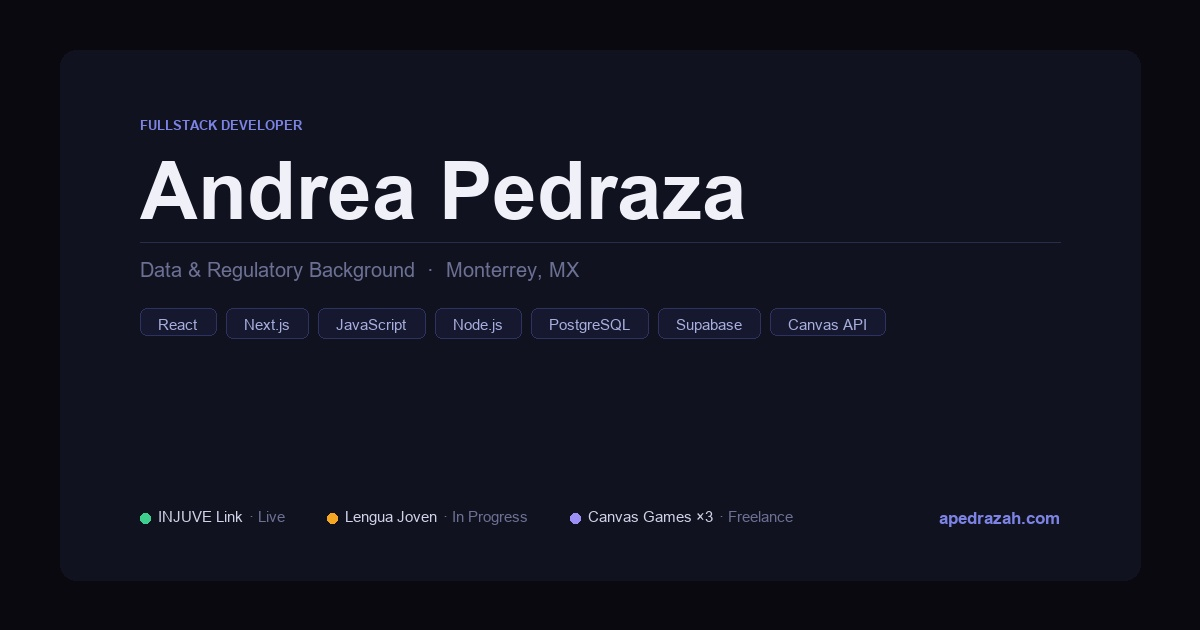
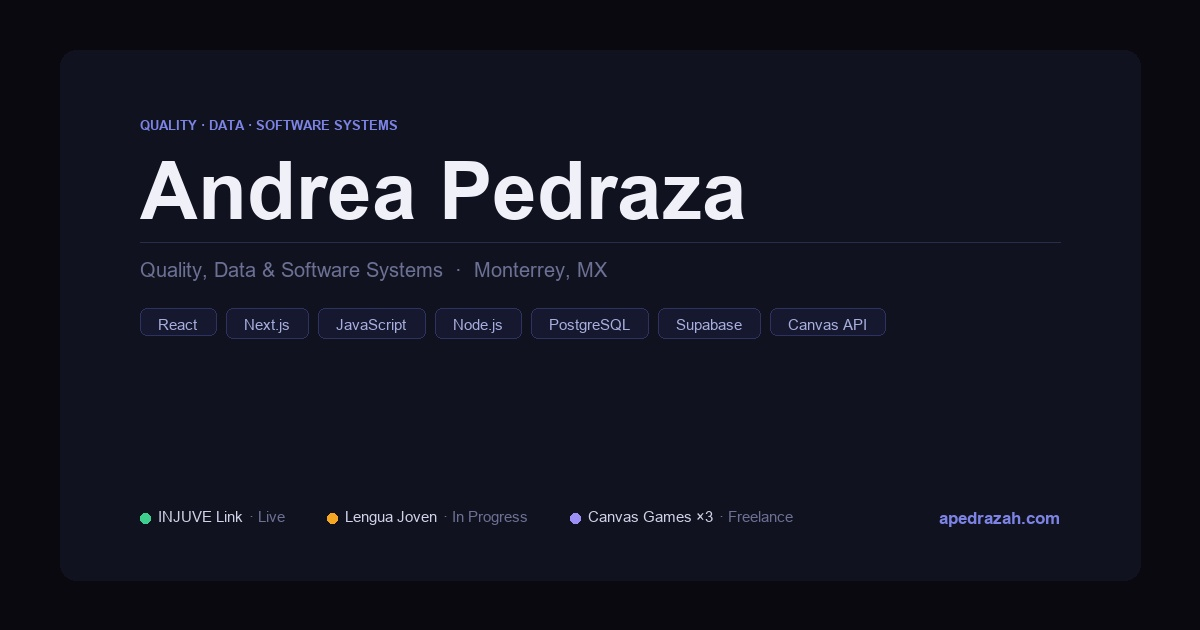
Reposition portfolio: Quality, Data & Software Systems
- Update headline, eyebrow, tagline, and profile to hybrid QA/Data/Software positioning
- Correct all three education entries: dates, degree titles, and status badges
- Regenerate og-image.jpg with updated label and tagline
- Change Die Küche and Shoot the Word badges from Freelance to Live/En Vivo

Changed region(s): [[0.1233, 0.3921, 0.4933, 0.4524], [0.1233, 0.181, 0.3392, 0.2111]]

diff --git a/index.html b/index.html
@@ -3,9 +3,9 @@
 <head>
   <meta charset="UTF-8">
   <meta name="viewport" content="width=device-width, initial-scale=1.0">
-  <title>Andrea Pedraza Herrera — Fullstack Developer</title>
-  <meta property="og:title" content="Andrea Pedraza Herrera — Fullstack Developer" />
-  <meta property="og:description" content="Fullstack developer with a background in data engineering, regulatory compliance, and clinical research. Portfolio: web apps, Canvas games, and more." />
+  <title>Andrea Pedraza Herrera — Quality, Data &amp; Software Systems</title>
+  <meta property="og:title" content="Andrea Pedraza Herrera — Quality, Data &amp; Software Systems" />
+  <meta property="og:description" content="Connecting quality assurance and regulatory compliance with data analytics and software development. Portfolio: web apps, validated systems, and data-driven tools." />
   <meta property="og:image" content="https://apedrazah.com/og-image.jpg" />
   <meta property="og:url" content="https://apedrazah.com" />
   <meta property="og:type" content="website" />
@@ -1063,18 +1063,16 @@
 <!-- HERO -->
 <section id="hero">
   <div class="hero-left">
-    <p class="hero-eyebrow en-only">Fullstack Developer · Data &amp; Regulatory Background · Monterrey, MX</p>
-    <p class="hero-eyebrow es-only">Desarrolladora Fullstack · Experiencia en Datos &amp; Regulatorio · Monterrey, MX</p>
+    <p class="hero-eyebrow en-only">Quality, Data &amp; Software Systems · Monterrey, MX</p>
+    <p class="hero-eyebrow es-only">Calidad, Datos y Sistemas de Software · Monterrey, MX</p>
 
     <h1 class="hero-name">Andrea<br>Pedraza Herrera</h1>
 
     <p class="hero-tagline en-only">
-      Fullstack developer with a background in data engineering, regulatory compliance, and clinical research.
-      I build web applications and interactive tools — and I bring analytical rigor to every layer of the stack.
+      I connect quality assurance and regulatory compliance with data analytics and software development to improve processes, strengthen quality systems, and enable better decisions.
     </p>
     <p class="hero-tagline es-only">
-      Desarrolladora fullstack con experiencia en ingeniería de datos, cumplimiento regulatorio e investigación clínica.
-      Construyo aplicaciones web y herramientas interactivas, con rigor analítico en cada capa del stack.
+      Integro el aseguramiento de calidad y el cumplimiento regulatorio con el análisis de datos y el desarrollo de software para mejorar procesos, fortalecer los sistemas de calidad y facilitar mejores decisiones.
     </p>
 
     <div class="hero-contacts">
@@ -1187,23 +1185,27 @@
       <p class="sb-label es-only">Educación</p>
 
       <div class="edu-entry">
-        <p class="edu-degree en-only">M.Sc. in Engineering — Data Science</p>
-        <p class="edu-degree es-only">Maestría en Ingeniería — Ciencias de Datos</p>
+        <p class="edu-degree en-only">M.Sc. in Data Science</p>
+        <p class="edu-degree es-only">Maestría en Ciencias de Datos</p>
         <p class="edu-school">UVM</p>
-        <span class="edu-badge en-only">Sep 2026 – Jun 2028 · In Progress</span>
-        <span class="edu-badge es-only">Sep 2026 – Jun 2028 · En curso</span>
+        <span class="edu-badge en-only">Aug 2026 – Present · In Progress</span>
+        <span class="edu-badge es-only">Ago 2026 – Presente · En curso</span>
       </div>
 
       <div class="edu-entry">
         <p class="edu-degree en-only">B.Sc. in Data Science Engineering</p>
         <p class="edu-degree es-only">Ing. en Ciencias de Datos</p>
-        <p class="edu-school">UVM · 2026</p>
+        <p class="edu-school">UVM · 2023 – 2026</p>
+        <span class="edu-badge en-only">Degree in Process</span>
+        <span class="edu-badge es-only">Título en Trámite</span>
       </div>
 
       <div class="edu-entry">
         <p class="edu-degree en-only">B.Sc. in Food Science</p>
-        <p class="edu-degree es-only">Lic. en Ciencia de Alimentos</p>
-        <p class="edu-school">UANL · 2020</p>
+        <p class="edu-degree es-only">Lic. en Ciencias de los Alimentos</p>
+        <p class="edu-school">UANL · 2015 – 2020</p>
+        <span class="edu-badge en-only">Degree &amp; License Obtained</span>
+        <span class="edu-badge es-only">Título y Cédula Profesional</span>
       </div>
     </div>
 
@@ -1236,10 +1238,10 @@
         <div class="sec-rule"></div>
       </div>
       <p class="profile-text en-only">
-        Fullstack developer and Data Science Engineer (UVM, 2026) with a background in data engineering, regulatory compliance, and clinical research. Builds web applications and interactive tools — React, Node.js, PostgreSQL, Canvas API — and brings analytical rigor to every layer of the stack. Background includes managing regulated data, quality indicators, and audits across healthcare and clinical research environments.
+        I connect quality assurance and regulatory compliance with data analytics and software development to improve processes, strengthen quality systems, and enable better decisions.
       </p>
       <p class="profile-text es-only">
-        Desarrolladora fullstack e Ingeniera en Ciencias de Datos (UVM, 2026) con experiencia en ingeniería de datos, cumplimiento regulatorio e investigación clínica. Construye aplicaciones web y herramientas interactivas — React, Node.js, PostgreSQL, Canvas API — con rigor analítico en cada capa del stack. Su trayectoria incluye gestión de datos regulados, indicadores de calidad y auditorías en entornos de salud e investigación clínica.
+        Integro el aseguramiento de calidad y el cumplimiento regulatorio con el análisis de datos y el desarrollo de software para mejorar procesos, fortalecer los sistemas de calidad y facilitar mejores decisiones.
       </p>
     </section>
 
@@ -1253,7 +1255,7 @@
 
       <div class="proj-list en-only">
         <div class="proj-card">
-          <p class="proj-name">Die Küche <span class="edu-badge" style="margin-left:8px;vertical-align:middle;background:var(--surface);color:var(--ink-muted);">Freelance</span></p>
+          <p class="proj-name">Die Küche <span class="edu-badge" style="margin-left:8px;vertical-align:middle;">Live</span></p>
           <p class="proj-desc">Educational German culinary vocabulary game built for Focused Languages. Oct 2026.</p>
           <details class="proj-details">
             <summary><span>Read more</span></summary>
@@ -1279,7 +1281,7 @@
           </div>
         </div>
         <div class="proj-card">
-          <p class="proj-name">Shoot the Word <span class="edu-badge" style="margin-left:8px;vertical-align:middle;background:var(--surface);color:var(--ink-muted);">Freelance</span></p>
+          <p class="proj-name">Shoot the Word <span class="edu-badge" style="margin-left:8px;vertical-align:middle;">Live</span></p>
           <p class="proj-desc">Multilingual vocabulary shooting game in 3 languages (German, English, Spanish). Oct 2026.</p>
           <details class="proj-details">
             <summary><span>Read more</span></summary>
@@ -1330,7 +1332,7 @@
 
       <div class="proj-list es-only">
         <div class="proj-card">
-          <p class="proj-name">Die Küche <span class="edu-badge" style="margin-left:8px;vertical-align:middle;background:var(--surface);color:var(--ink-muted);">Freelance</span></p>
+          <p class="proj-name">Die Küche <span class="edu-badge" style="margin-left:8px;vertical-align:middle;">En Vivo</span></p>
           <p class="proj-desc">Juego educativo de vocabulario culinario en alemán para Focused Languages. Oct 2026.</p>
           <details class="proj-details">
             <summary><span>Leer más</span></summary>
@@ -1356,7 +1358,7 @@
           </div>
         </div>
         <div class="proj-card">
-          <p class="proj-name">Shoot the Word <span class="edu-badge" style="margin-left:8px;vertical-align:middle;background:var(--surface);color:var(--ink-muted);">Freelance</span></p>
+          <p class="proj-name">Shoot the Word <span class="edu-badge" style="margin-left:8px;vertical-align:middle;">En Vivo</span></p>
           <p class="proj-desc">Juego de disparos de vocabulario multilingüe en 3 idiomas (alemán, inglés, español). Oct 2026.</p>
           <details class="proj-details">
             <summary><span>Leer más</span></summary>
@@ -1640,14 +1642,6 @@
           <span class="crs-action"><svg width="13" height="13" viewBox="0 0 13 13" fill="none" aria-hidden="true"><rect x="1.5" y="1.5" width="10" height="10" rx="1.5" stroke="currentColor" stroke-width="1.3"/><path d="M6.5 4v5M4 6.5h5" stroke="currentColor" stroke-width="1.3" stroke-linecap="round"/></svg><span class="en-only">View Certificate</span><span class="es-only">Ver Certificado</span></span>
         </div>
 
-        <!-- ── Sin fecha (pendiente confirmar) ── -->
-        <div class="course-card" data-cat="dev" tabindex="0" role="button" onclick="openCert('Big Data Fundamentals',null,null)" onkeydown="if(event.key==='Enter'||event.key===' ')openCert('Big Data Fundamentals',null,null)">
-          <span class="crs-provider en-only">Course</span><span class="crs-provider es-only">Curso</span>
-          <p class="crs-name en-only">Big Data Fundamentals</p><p class="crs-name es-only">Fundamentos de Big Data</p>
-          <p class="crs-desc en-only">Processing and analyzing large volumes of data — distributed systems and pipelines.</p><p class="crs-desc es-only">Procesamiento y análisis de grandes volúmenes de datos — sistemas distribuidos y pipelines.</p>
-          <span class="crs-action"><svg width="13" height="13" viewBox="0 0 13 13" fill="none" aria-hidden="true"><rect x="1.5" y="1.5" width="10" height="10" rx="1.5" stroke="currentColor" stroke-width="1.3"/><path d="M6.5 4v5M4 6.5h5" stroke="currentColor" stroke-width="1.3" stroke-linecap="round"/></svg><span class="en-only">View Certificate</span><span class="es-only">Ver Certificado</span></span>
-        </div>
-
         <!-- ── Nov 2024 ── -->
         <div class="course-card" data-cat="dev" tabindex="0" role="button" onclick="openCert('Datos, Datos, Datos','Coursera','certs/datos-datos-datos.pdf')" onkeydown="if(event.key==='Enter'||event.key===' ')openCert('Datos, Datos, Datos','Coursera','certs/datos-datos-datos.pdf')">
           <span class="crs-provider">Coursera · Nov 2024</span>
@@ -1670,7 +1664,6 @@
           <span class="crs-action"><svg width="13" height="13" viewBox="0 0 13 13" fill="none" aria-hidden="true"><rect x="1.5" y="1.5" width="10" height="10" rx="1.5" stroke="currentColor" stroke-width="1.3"/><path d="M6.5 4v5M4 6.5h5" stroke="currentColor" stroke-width="1.3" stroke-linecap="round"/></svg><span class="en-only">View Certificate</span><span class="es-only">Ver Certificado</span></span>
         </div>
 
-        <!-- ── 2025 (fecha pendiente confirmar) ── -->
         <div class="course-card" data-cat="dev" tabindex="0" role="button" onclick="openCert('Google Data Analytics','Coursera','certs/google-data-analytics-cert.pdf')" onkeydown="if(event.key==='Enter'||event.key===' ')openCert('Google Data Analytics','Coursera','certs/google-data-analytics-cert.pdf')">
           <span class="crs-provider">Coursera</span>
           <p class="crs-name">Google Data Analytics</p>
